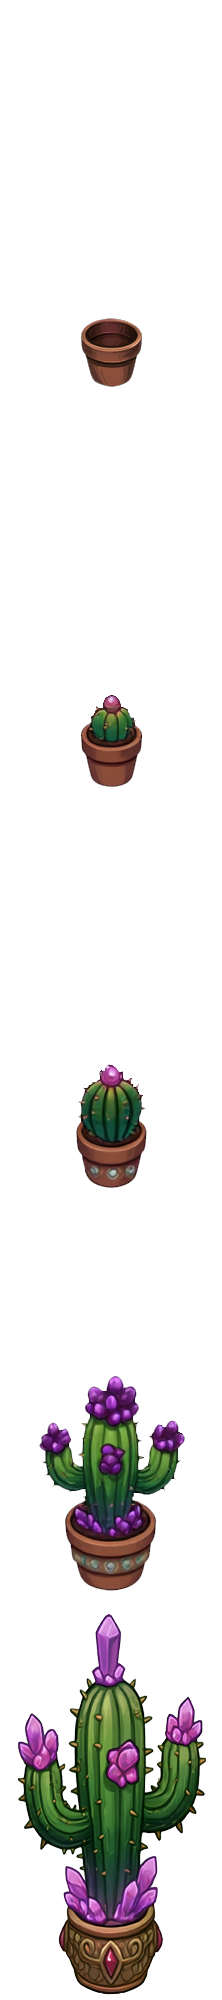
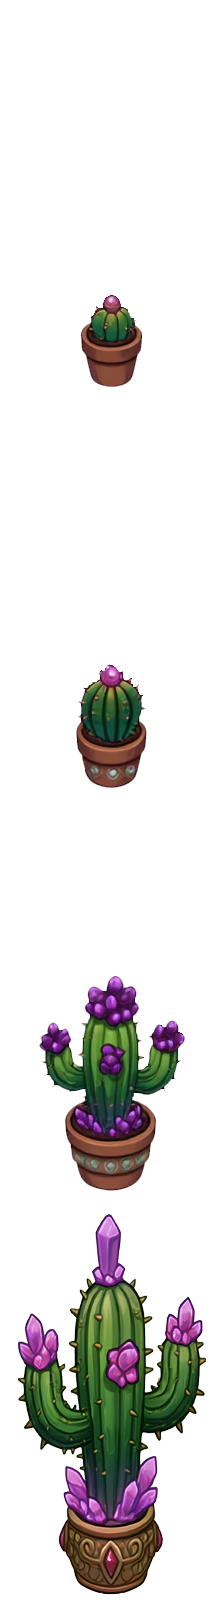
Generalize plant selection into reusable selectable-entity system; add EmptyPot entity

Changed region(s): [[0.0811, 0.5312, 0.9189, 1.0], [0.3243, 0.3438, 0.6757, 0.5], [0.3514, 0.1562, 0.6486, 0.25]]

diff --git a/src/game/systems/selection.js b/src/game/systems/selection.js
@@ -1,0 +1,54 @@
+import { addEntity } from '@chickenfart/engine/world';
+import { mouse, mousePressed } from '@chickenfart/engine/input';
+import { getSelectables } from '../state/selectableRegistry.js';
+import { selectItem, clearSelection } from '../state/selectionState.js';
+
+export const SELECTION_RADIUS = 30;
+export const SELECTION_RADIUS_SQR = SELECTION_RADIUS * SELECTION_RADIUS;
+
+export let hoverOverSelectable = null;
+
+export function getHoverOverSelectable() {
+  return hoverOverSelectable;
+}
+
+export function isSelectableHovered(entity) {
+  if (!hoverOverSelectable) return false;
+  return hoverOverSelectable.entity === entity || hoverOverSelectable === entity;
+}
+
+// Non-visual system entity: picks the closest selectable within range of a click, anywhere on the stage.
+export function initSelectionSystem() {
+  addEntity({
+    x: 0,
+    y: 0,
+    active: true,
+    draw() {},
+    update() {
+      let closest = null;
+      let closestDistSqr = SELECTION_RADIUS_SQR;
+
+      for (const item of getSelectables()) {
+        const dx = item.entity.x - mouse.worldX;
+        const dy = item.entity.y - mouse.worldY;
+        const distSqr = dx * dx + dy * dy;
+
+        if (distSqr <= closestDistSqr) {
+          closestDistSqr = distSqr;
+          closest = item;
+        }
+      }
+
+      hoverOverSelectable = closest;
+
+      if (mousePressed.left) {
+        if (closest) {
+          selectItem(closest.info);
+        } else {
+          clearSelection();
+        }
+      }
+    }
+  });
+}
+

diff --git a/src/main.js b/src/main.js
@@ -1,8 +1,8 @@
 import * as world from '@chickenfart/engine/world';
 import { loadGameState, resetGameState, saveGameState } from './game/state/gameState.js';
 import { onSelectionChange, clearSelection } from './game/state/selectionState.js';
-import { clearPlants } from './game/state/plantRegistry.js';
-import { initPlantSelectionSystem } from './game/systems/plantSelection.js';
+import { clearSelectables } from './game/state/selectableRegistry.js';
+import { initSelectionSystem } from './game/systems/selection.js';
 import { initFloorNavigationSystem } from './game/systems/floorNavigation.js';
 import gameplayConfig from './game/data/gameplay-config.json';
 import './style.css';
@@ -22,7 +22,8 @@ function renderHud() {
   crystalBalanceElement.textContent = String(gameState.crystals);
 }
 
-function renderPlantPopup(plant) {
+function renderPlantPopup(item) {
+  const plant = item && item.type === 'plant' ? item : null;
   plantPopupElement.hidden = !plant;
   if (!plant) return;
 
@@ -52,9 +53,9 @@ async function boot() {
     }
   });
 
-  clearPlants();
+  clearSelectables();
   await world.loadLevel(starterGreenhouseId);
-  initPlantSelectionSystem();
+  initSelectionSystem();
   await initFloorNavigationSystem({ levelId: starterGreenhouseId, floorEntityName: 'Greenhouse1' });
   statusElement.textContent = 'Starter greenhouse loaded. The garden is ready for its first plant.';
 }

diff --git a/src/entities/EmptyPot.js b/src/entities/EmptyPot.js
@@ -1,29 +1,17 @@
 import { Entity } from "@chickenfart/engine/entitiesFactory";
 import { registerSelectable } from "../game/state/selectableRegistry.js";
 import { isSelectableHovered } from "../game/systems/selection.js";
-import gameplayConfig from "../game/data/gameplay-config.json";
-
-const plantId = "crystal-cactus";
 
 export async function create(x, y) {
 
-    let entity = await Entity.create(x, y, "Cactus");
-    entity.tag = "plant";
+    let entity = await Entity.create(x, y, "EmptyPot");
+    entity.tag = "empty-pot";
 
-    const config = gameplayConfig.plants[plantId];
-    const level = config.levels[0];
-
-    entity.setState(`level${level.level}`);
+    entity.setState("idle");
 
     registerSelectable(entity, {
-        type: "plant",
-        plantId,
-        name: config.name,
-        level: level.level,
-        productionPerSecond: level.productionPerSecond,
-        purchaseCost: config.purchaseCost
+        type: "empty-pot"
     });
-
 
     entity.onDrawBehind = (ctx) => {
         if (isSelectableHovered(entity)) {
@@ -37,3 +25,4 @@ export async function create(x, y) {
 
     return entity;
 }
+

diff --git a/src/game/state/selectionState.js b/src/game/state/selectionState.js
@@ -1,19 +1,20 @@
 // Ephemeral UI selection state: not persisted, separate from the saved gameState.
-let selectedPlant = null;
+// The selected item's `info` shape varies by `type` (e.g. "plant", "empty-pot").
+let selectedItem = null;
 const listeners = new Set();
 
-export function selectPlant(plant) {
-  selectedPlant = plant;
+export function selectItem(item) {
+  selectedItem = item;
   notify();
 }
 
 export function clearSelection() {
-  selectedPlant = null;
+  selectedItem = null;
   notify();
 }
 
-export function getSelectedPlant() {
-  return selectedPlant;
+export function getSelectedItem() {
+  return selectedItem;
 }
 
 export function onSelectionChange(callback) {
@@ -23,6 +24,7 @@ export function onSelectionChange(callback) {
 
 function notify() {
   for (const callback of listeners) {
-    callback(selectedPlant);
+    callback(selectedItem);
   }
 }
+

diff --git a/src/game/systems/floorNavigation.js b/src/game/systems/floorNavigation.js
@@ -2,7 +2,7 @@ import { addEntity } from '@chickenfart/engine/world';
 import { mouse, mousePressed } from '@chickenfart/engine/input';
 import { isPointInEntityCollision } from '@chickenfart/engine/collision';
 import { setWalkTarget, getWalkTarget } from '../state/navigationState.js';
-import { hoverOverPlant } from './plantSelection.js';
+import { hoverOverSelectable } from './selection.js';
 
 const MARKER_RADIUS = 6;
 
@@ -51,7 +51,7 @@ export async function initFloorNavigationSystem({ levelId, floorEntityName }) {
     },
     update() {
       if (!mousePressed.left) return;
-      if (hoverOverPlant) return;
+      if (hoverOverSelectable) return;
       if (!isPointInEntityCollision(floorShape, mouse.worldX, mouse.worldY)) return;
 
       setWalkTarget(mouse.worldX, mouse.worldY);

diff --git a/src/game/state/selectableRegistry.js b/src/game/state/selectableRegistry.js
@@ -1,0 +1,20 @@
+// Live registry of selectable entities (plants, empty pots, etc.), rebuilt on every level load.
+// `info` must include a `type` field so consumers (UI, click handlers) can branch on it.
+const selectables = [];
+
+export function registerSelectable(entity, info) {
+  selectables.push({ entity, info });
+}
+
+export function unregisterSelectable(entity) {
+  const index = selectables.findIndex((item) => item.entity === entity);
+  if (index !== -1) selectables.splice(index, 1);
+}
+
+export function getSelectables() {
+  return selectables;
+}
+
+export function clearSelectables() {
+  selectables.length = 0;
+}
